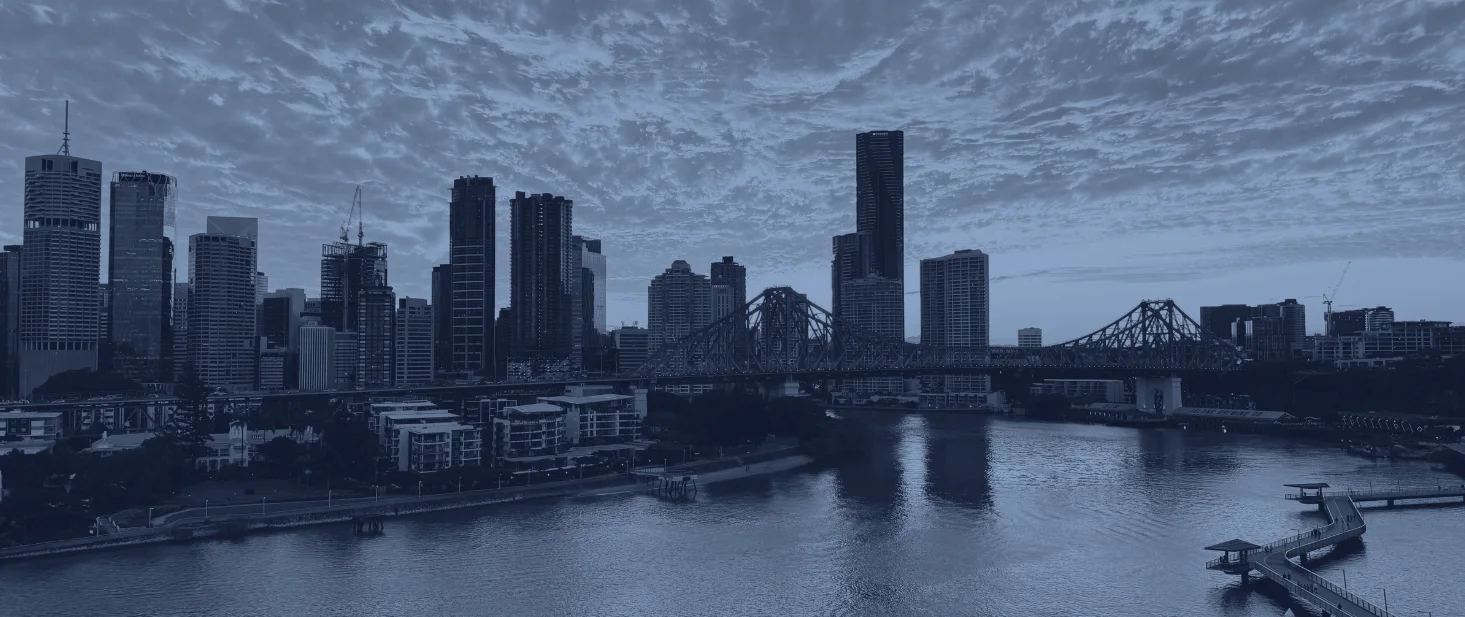
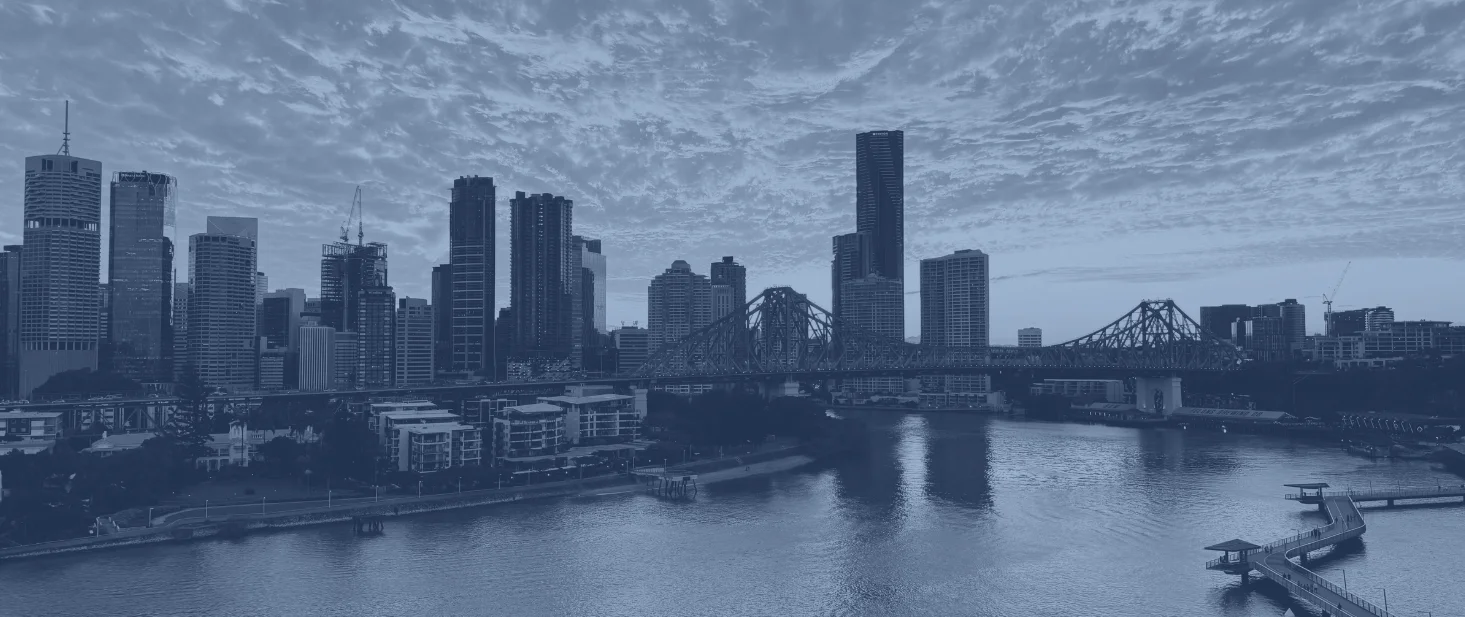
Lighten hero image - less dark overall
Lighter duotone shadow/highlight range and reduced tint/overlay
opacity so the skyline is easier to see, while keeping enough
contrast for the headline to stay legible.

diff --git a/styles.css b/styles.css
@@ -279,7 +279,7 @@ body.loaded {
   position: absolute;
   inset: 0;
   z-index: 0;
-  background: linear-gradient(160deg, rgba(12, 29, 60, 0.55) 0%, rgba(23, 52, 98, 0.35) 55%, rgba(10, 23, 48, 0.65) 100%);
+  background: linear-gradient(160deg, rgba(12, 29, 60, 0.38) 0%, rgba(23, 52, 98, 0.22) 55%, rgba(10, 23, 48, 0.45) 100%);
 }
 
 .hero-media img {
@@ -292,7 +292,7 @@ body.loaded {
   position: absolute;
   inset: 0;
   z-index: 0;
-  background: linear-gradient(180deg, rgba(10, 20, 45, 0.35) 0%, rgba(10, 20, 45, 0.55) 55%, rgba(6, 13, 30, 0.85) 100%);
+  background: linear-gradient(180deg, rgba(10, 20, 45, 0.2) 0%, rgba(10, 20, 45, 0.38) 55%, rgba(6, 13, 30, 0.65) 100%);
 }
 
 .hero-content {
